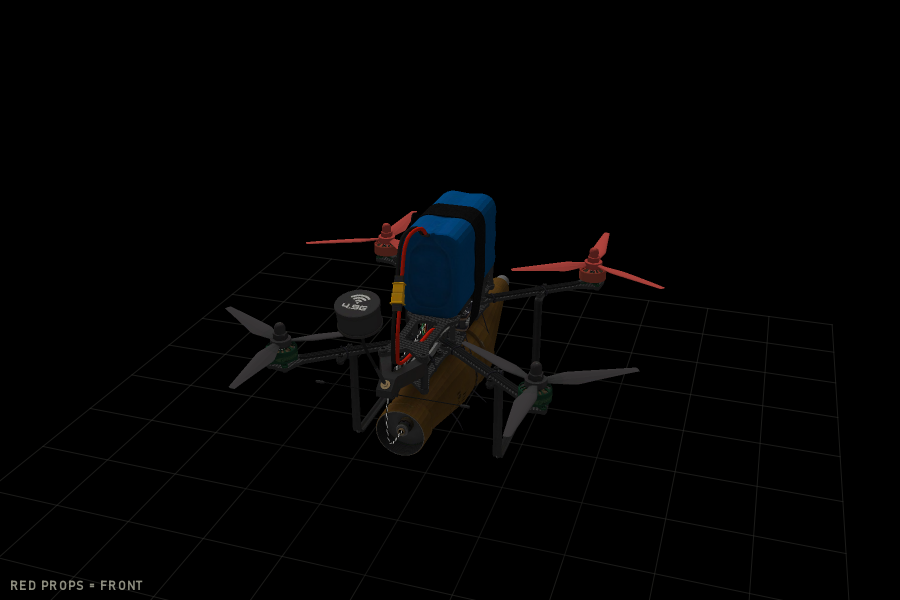
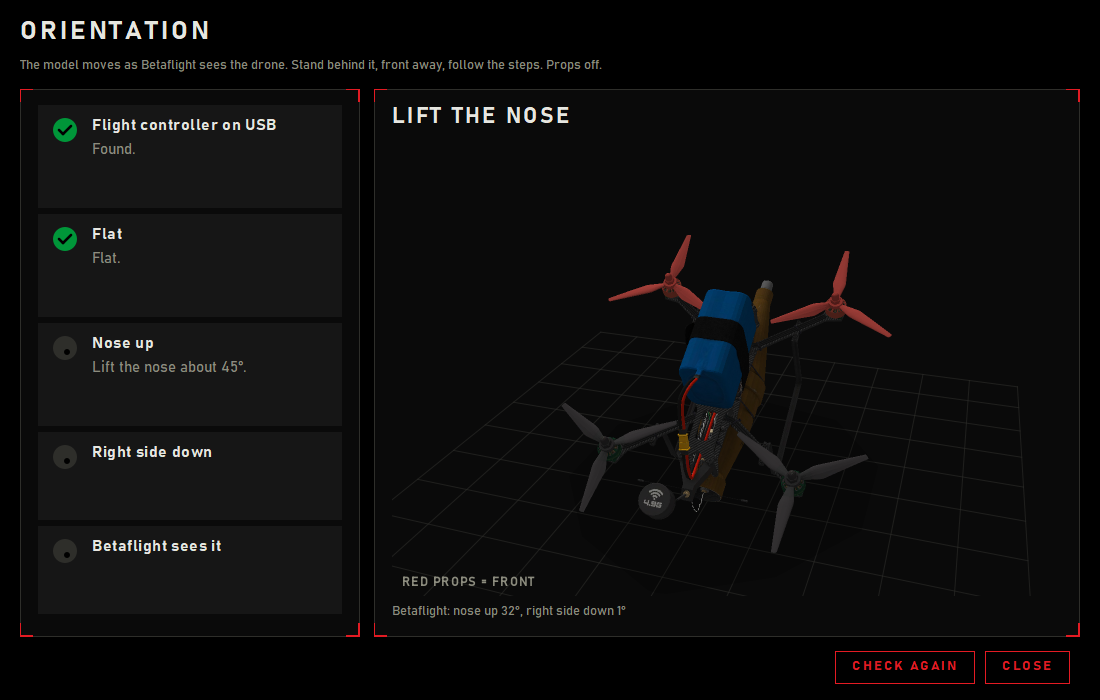
README: full calibration and orientation screens, map graphics over a real map

diff --git a/README.md b/README.md
@@ -62,8 +62,8 @@ Radio --USB--> Windows PC  == 5G / mobile / Tailscale ==>  Android phone on the 
 
 <table>
 <tr>
-<td width="50%"><img src="docs/images/calibration-radio.png" alt="Radio calibration: the 3D radio shows pitch up"></td>
-<td width="50%"><img src="docs/images/orientation-drone.png" alt="Orientation check: the 3D FPV drone"></td>
+<td width="50%"><img src="docs/images/calibration-radio.png" alt="Radio calibration: the PITCH UP step"></td>
+<td width="50%"><img src="docs/images/orientation-drone.png" alt="Orientation check: lift the nose"></td>
 </tr>
 </table>
 
